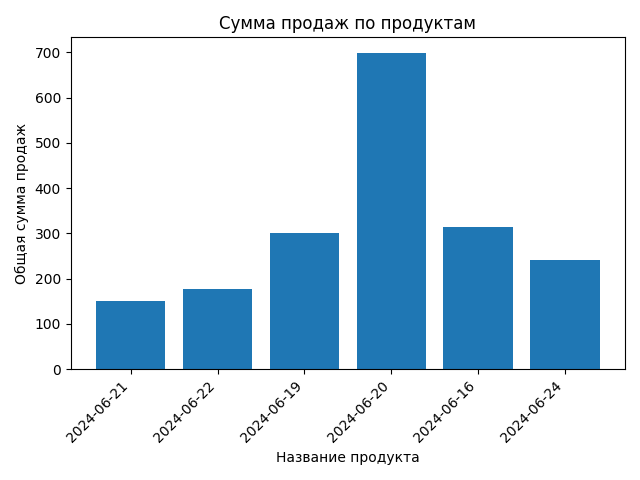
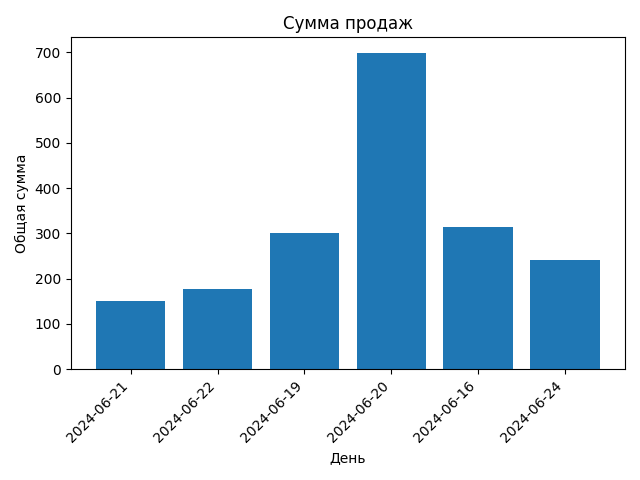
fix: view graph

Changed region(s): [[0.0, 0.25, 0.0625, 0.5938], [0.3438, 0.0312, 0.75, 0.0625], [0.4375, 0.9375, 0.6562, 0.9688]]

diff --git a/main.py b/main.py
@@ -14,7 +14,7 @@ def read_sales_data(file_path: str) -> list[dict]:
         где каждый словарь представляет строку из файла CSV.
     """
     # Открытие файла CSV в режиме чтения
-    with open(FILE_NAME, 'r', newline='') as file:
+    with open(file_path, 'r', newline='') as file:
         # Список продаж
         data_list_sales = []
         reader = csv.reader(file)
@@ -103,7 +103,11 @@ def sales_analytics_max_value(total_sales: dict) -> str:
 
     return max_key_name
 
-def build_graph(total_sales: list, out_file_name: str = "file.png"):
+def build_graph(total_sales: list,
+                out_file_name: str = "file.png",
+                xlabel: str = "Название",
+                ylabel: str = "Общая сумма",
+                title: str = "Сумма продаж"):
     """
     Строит график общей суммы продаж по каждому продукту
     и сохраняет файл в текущей директории.
@@ -114,10 +118,10 @@ def build_graph(total_sales: list, out_file_name: str = "file.png"):
     # сбрасываем состояние plt
     plt.clf()
     # Построение графика
-    plt.bar(total_sales.keys(), total_sales.values())
-    plt.xlabel('Название продукта')
-    plt.ylabel('Общая сумма продаж')
-    plt.title('Сумма продаж по продуктам')
+    plt.bar(total_sales.keys(), total_sales.values(),)
+    plt.xlabel(xlabel)
+    plt.ylabel(ylabel)
+    plt.title(title)
     plt.xticks(rotation=45, ha='right')
     plt.tight_layout()
     plt.savefig(out_file_name)
@@ -144,8 +148,8 @@ if __name__ == "__main__":
     print(f"День с максимальной выручкой: {max_sales_date}")
 
     # Построение графика продаж по продуктам
-    build_graph(total_sales, "sales_chart_on_name.png")
+    build_graph(total_sales, "sales_chart_on_name.png", xlabel="Название продукта")
 
     # Построение графика продаж по дням
-    build_graph(sales_by_date, "sales_chart_on_date.png")
+    build_graph(sales_by_date, "sales_chart_on_date.png", xlabel="День")
 
